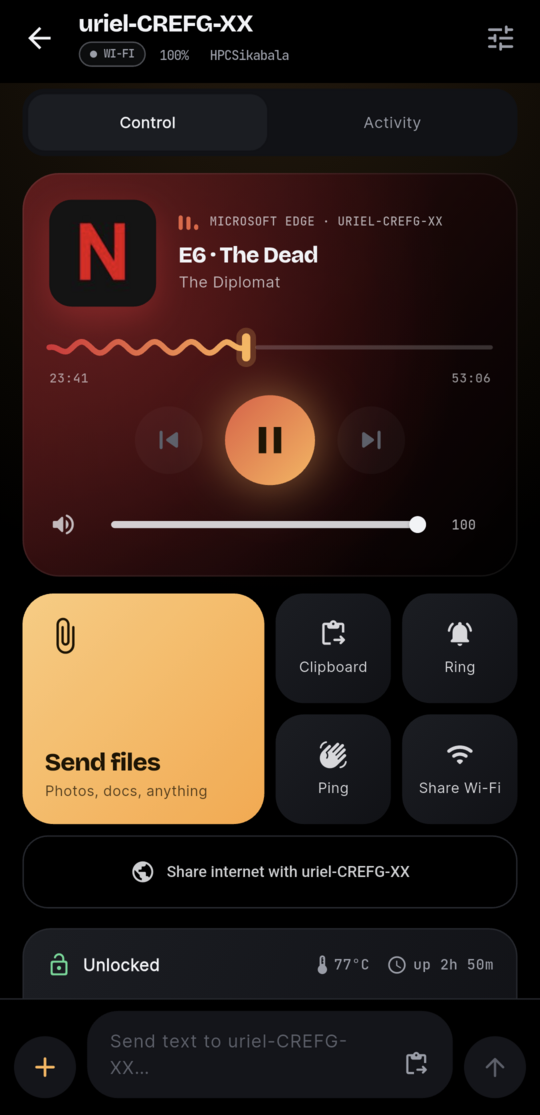
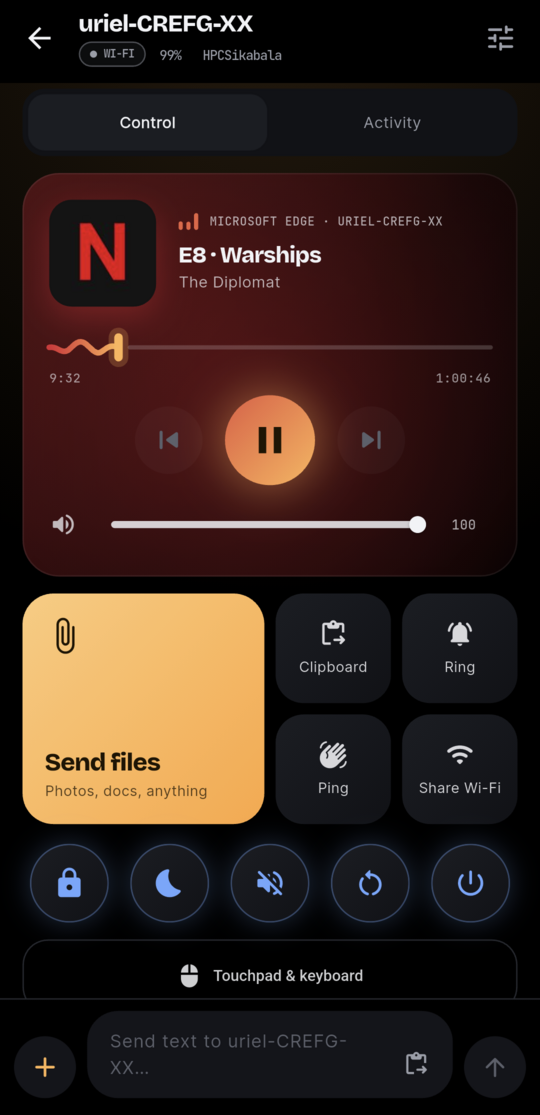
docs: fresh phone screenshots, add the touchpad

diff --git a/README.md b/README.md
@@ -37,9 +37,10 @@ touchpad, and unlock the laptop with your fingerprint. Everything runs over your
 
 <table>
   <tr>
-    <td align="center" width="33%"><img src="docs/screenshots/mobile-home.png" alt="Phone home screen"/><br/><sub><b>Your devices</b> at a glance</sub></td>
-    <td align="center" width="33%"><img src="docs/screenshots/mobile-control.png" alt="Phone control tab"/><br/><sub><b>Control</b>: now playing and quick actions</sub></td>
-    <td align="center" width="33%"><img src="docs/screenshots/mobile-vitals.png" alt="Phone laptop vitals and commands"/><br/><sub><b>Vitals</b>, Bluetooth and remote commands</sub></td>
+    <td align="center" width="25%"><img src="docs/screenshots/mobile-home.png" alt="Phone home screen"/><br/><sub><b>Your devices</b> at a glance</sub></td>
+    <td align="center" width="25%"><img src="docs/screenshots/mobile-control.png" alt="Phone control tab"/><br/><sub><b>Control</b>: now playing, quick actions and commands</sub></td>
+    <td align="center" width="25%"><img src="docs/screenshots/mobile-vitals.png" alt="Phone laptop vitals and Bluetooth"/><br/><sub><b>Vitals</b>, Bluetooth and sharing</sub></td>
+    <td align="center" width="25%"><img src="docs/screenshots/mobile-touchpad.png" alt="Phone touchpad screen"/><br/><sub><b>Touchpad</b> & keyboard for the laptop</sub></td>
   </tr>
 </table>
 
